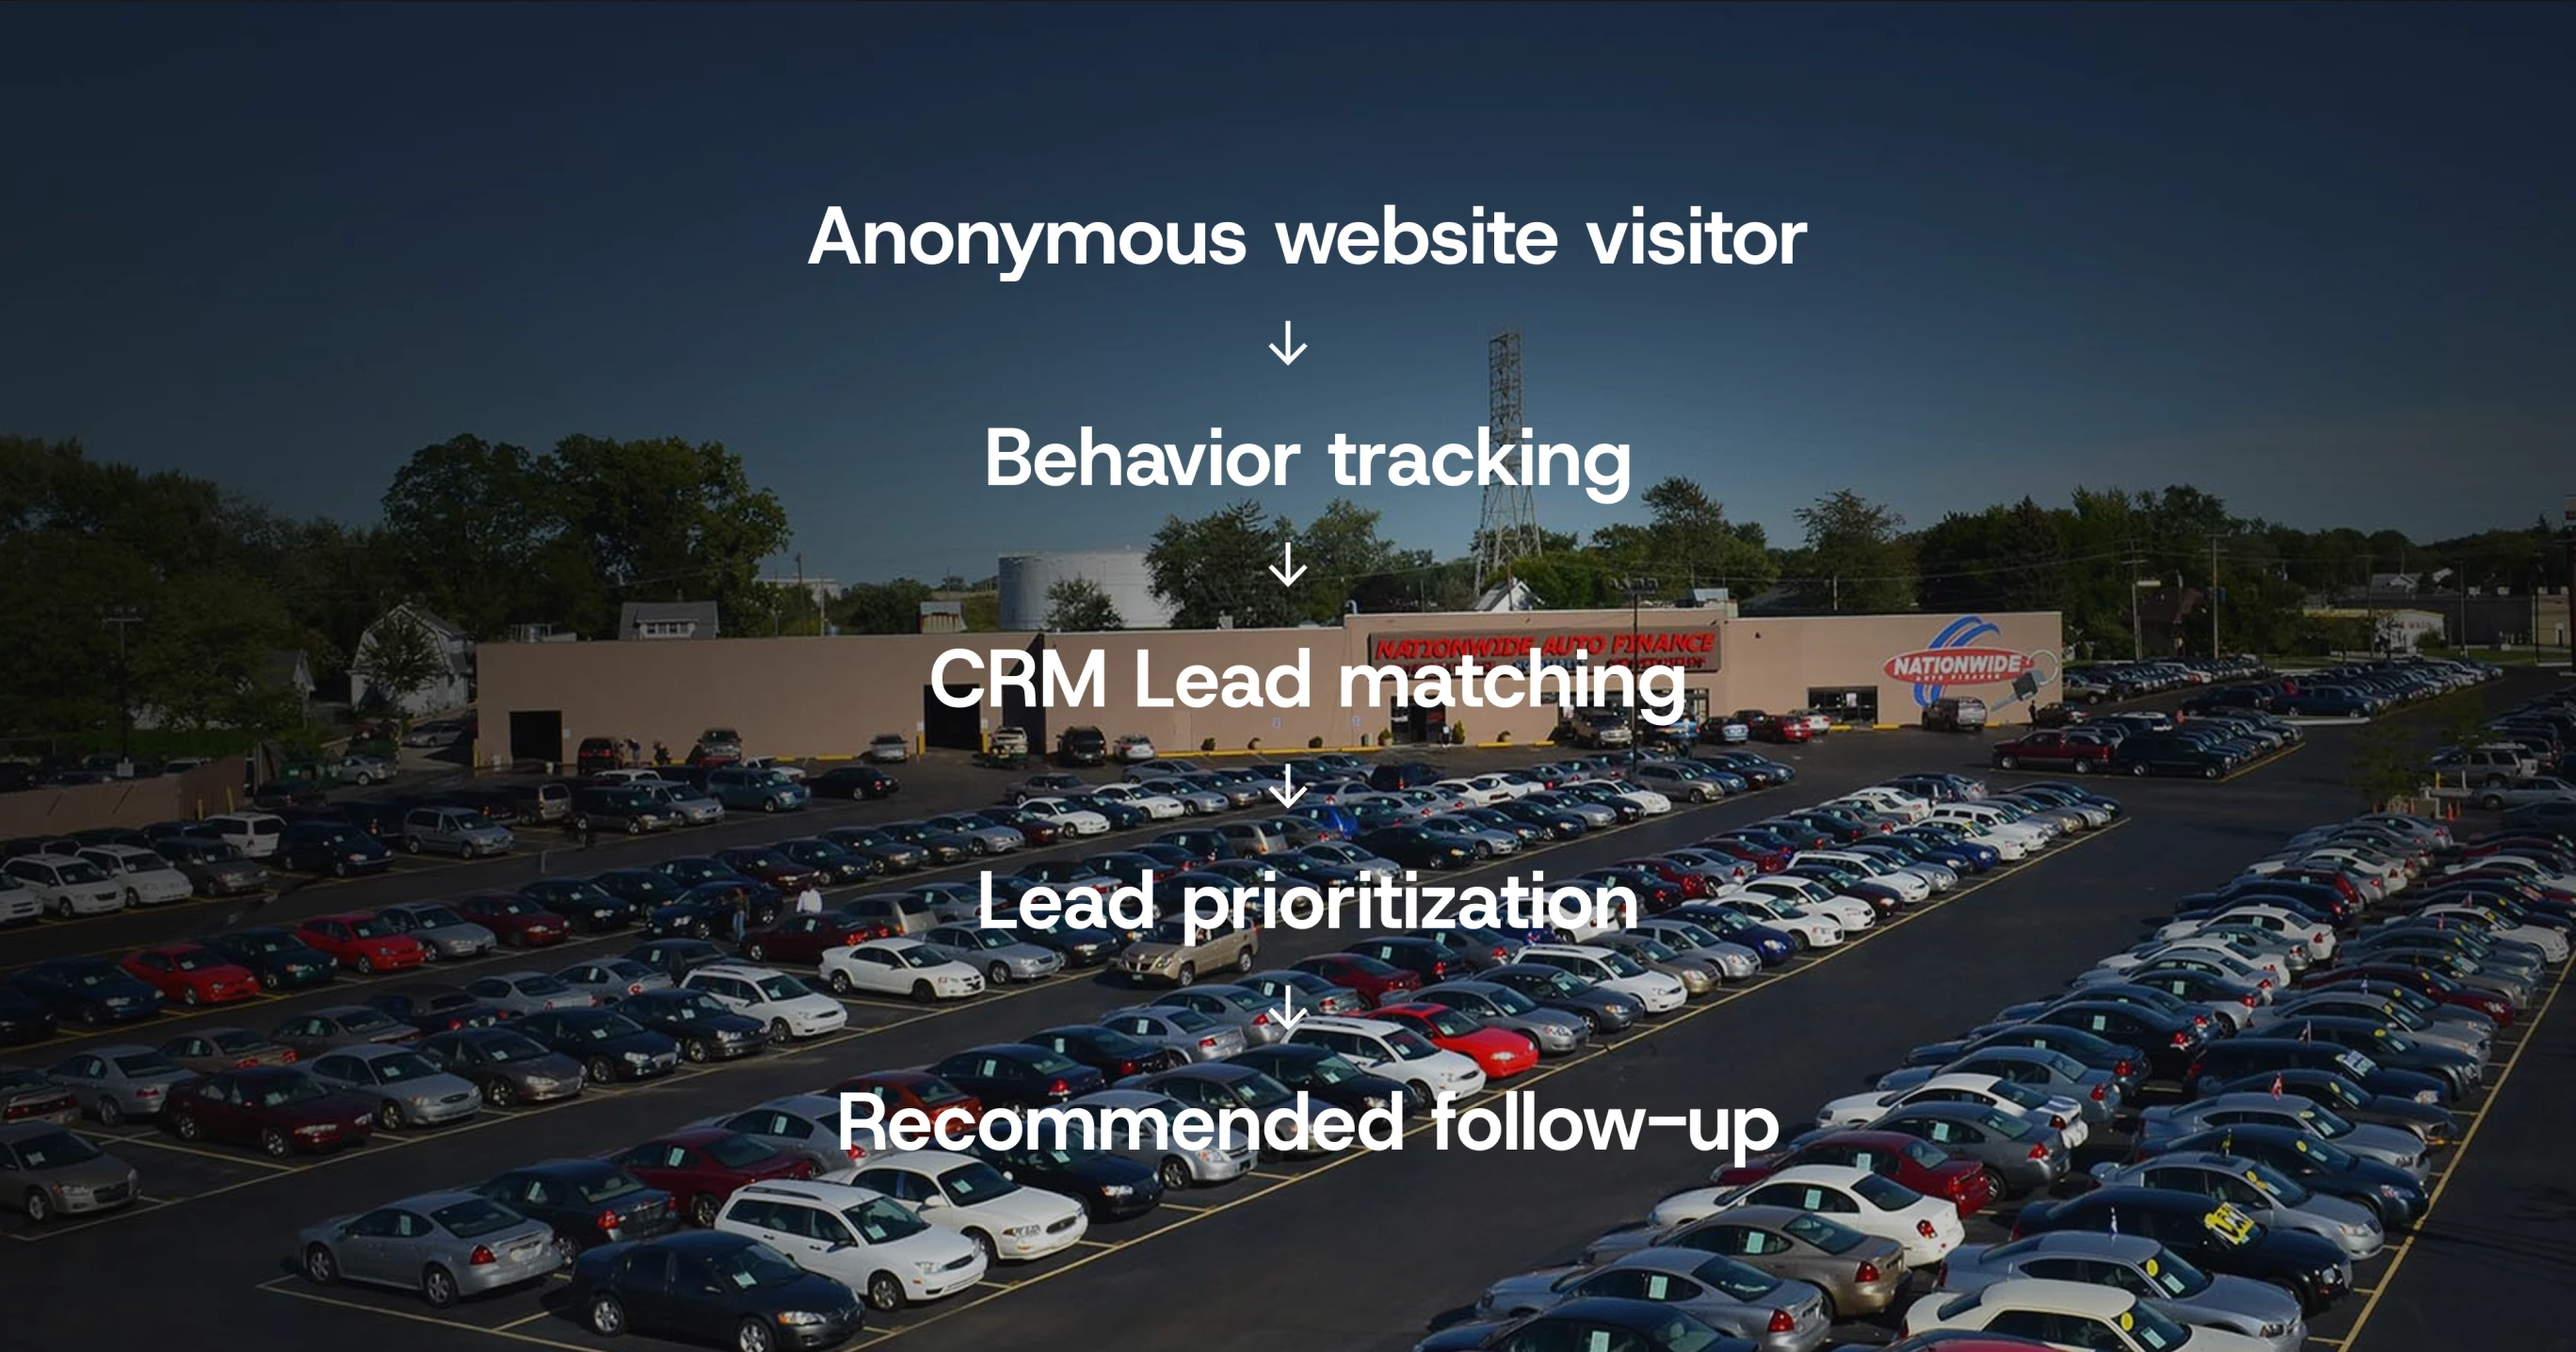
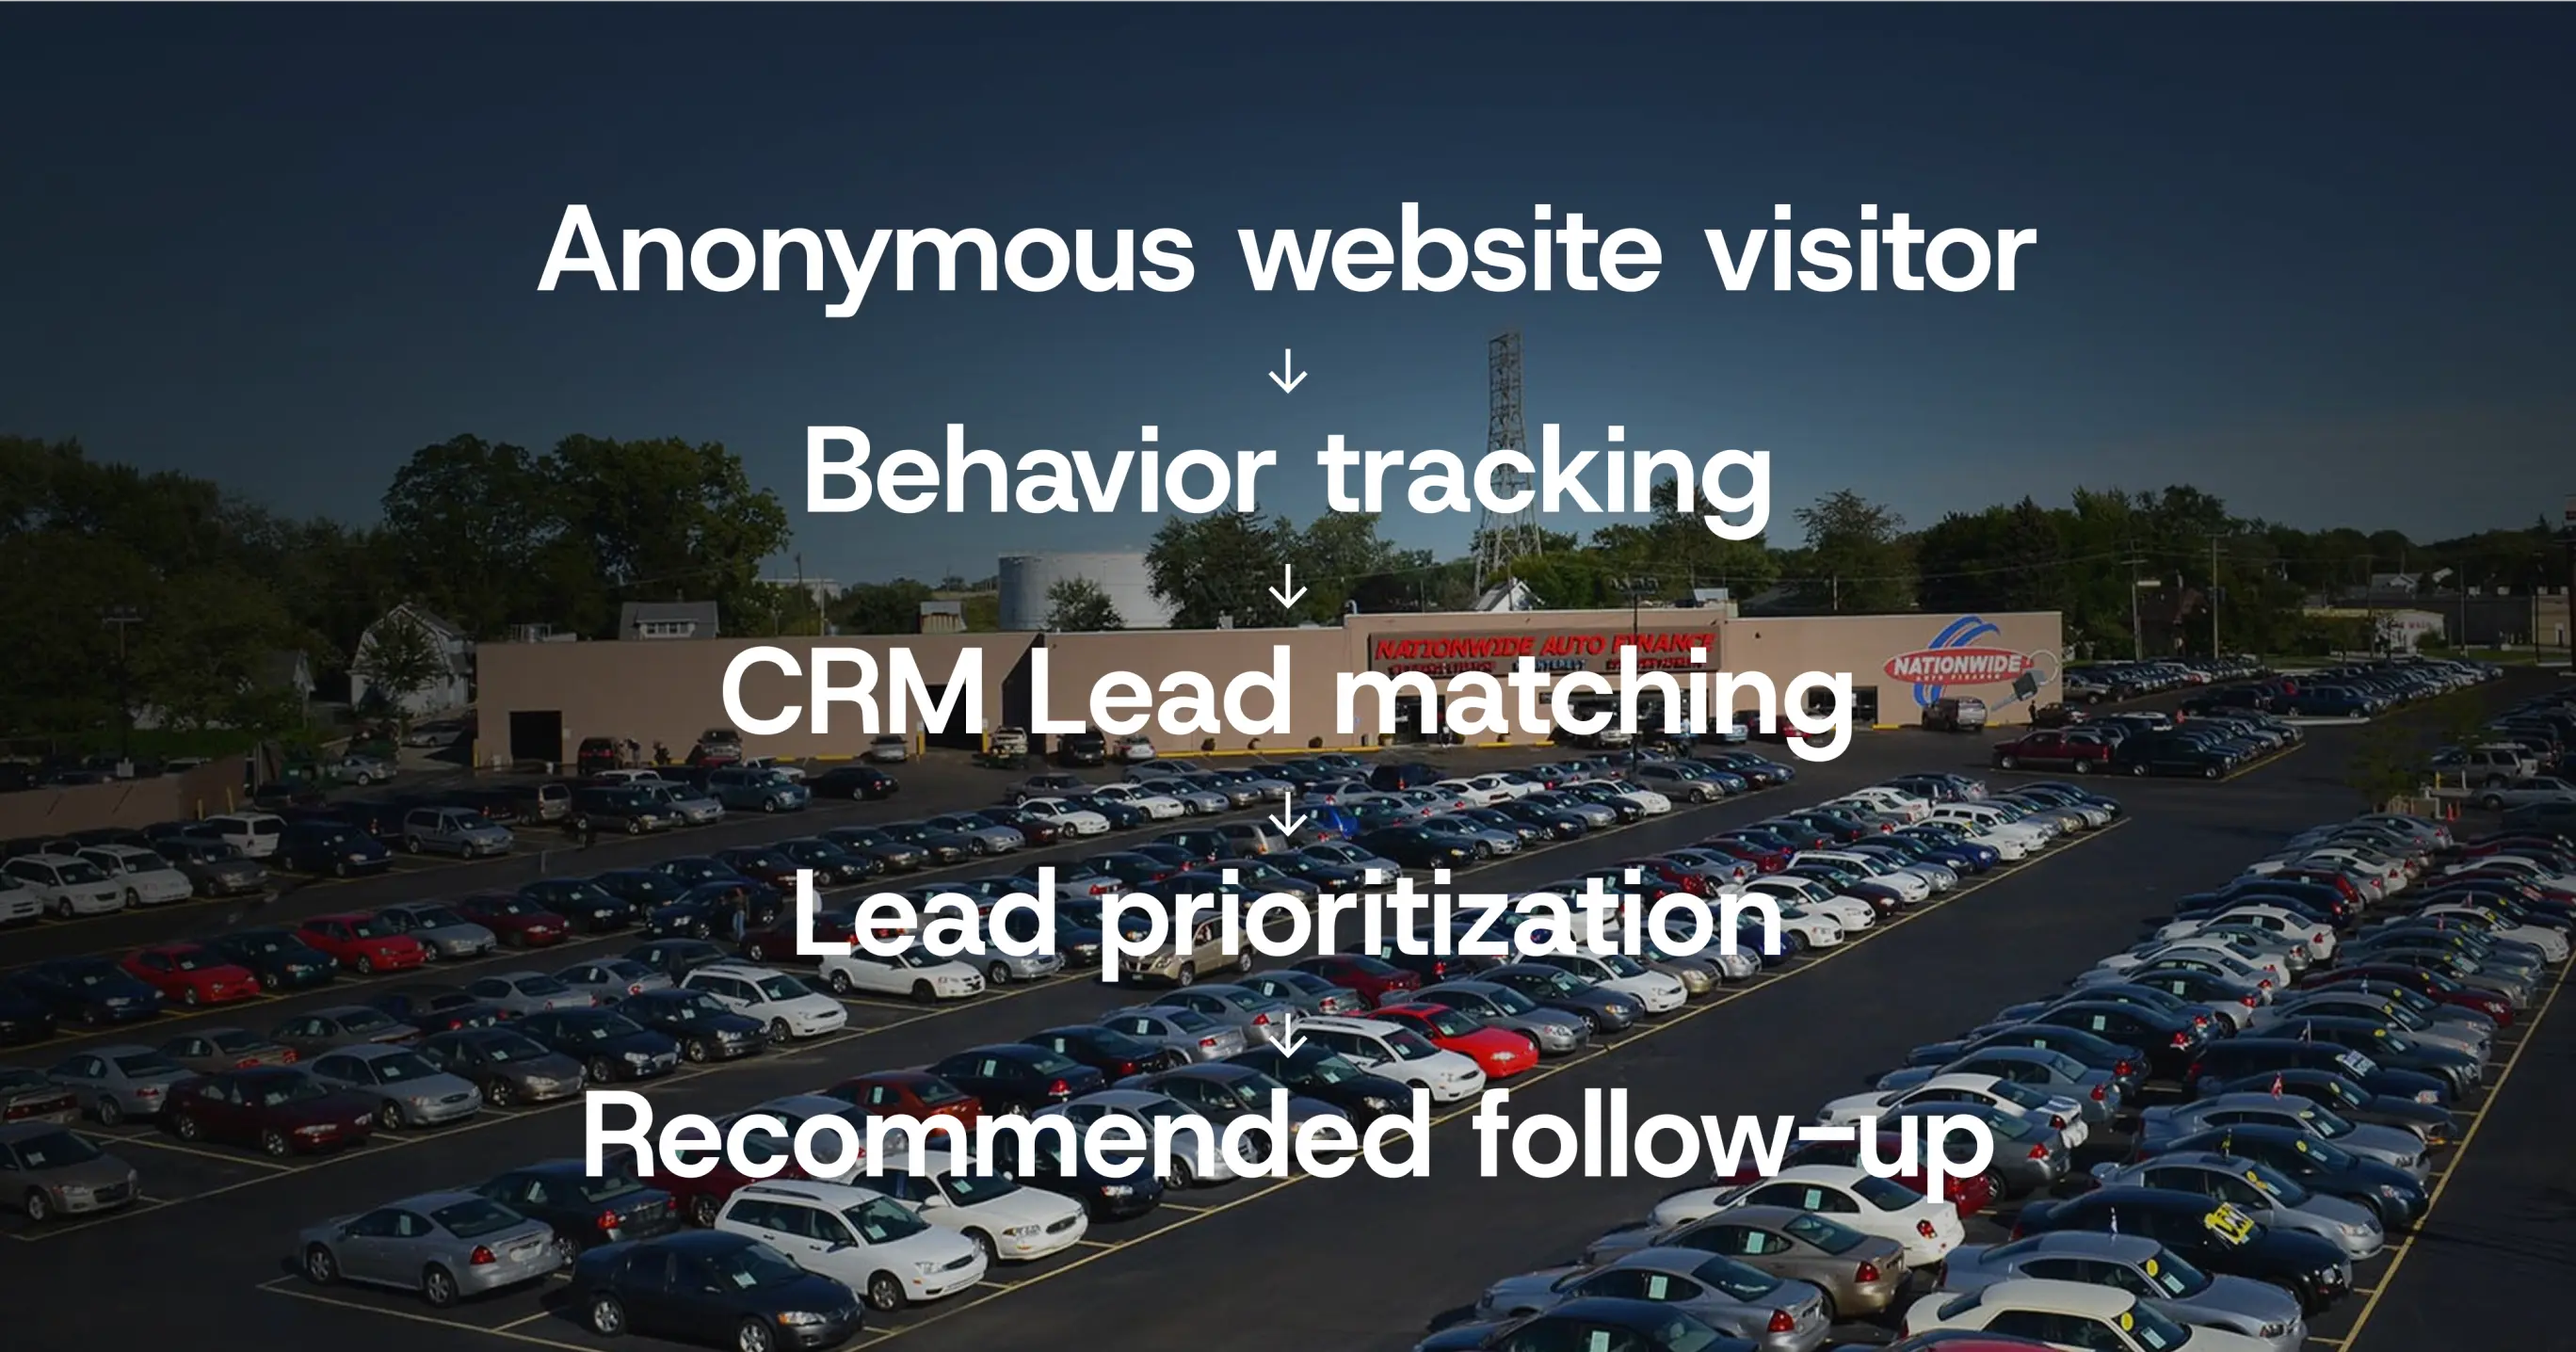
Update challenge images for Foureyes and AI Native case studies
- Convert Foureyes challenge image to 2x retina WebP (2736x1436)
- Convert AI Native challenge image to 2x retina WebP (2736x1536) and add to case study
- Bump cache versions to 20260730a

diff --git a/case-studies/ai-native-practice/index.html b/case-studies/ai-native-practice/index.html
@@ -8,7 +8,7 @@
 <link rel="canonical" href="https://calethompson.com/case-studies/ai-native-practice/">
 <link rel="preconnect" href="https://fonts.googleapis.com">
 <link href="https://fonts.googleapis.com/css2?family=Host+Grotesk:ital,wght@0,400;0,500;0,600;0,700;0,800;1,400;1,600&family=Cormorant+Infant:ital,wght@0,400;0,500;0,600;0,700;1,400&display=swap" rel="stylesheet">
-<link rel="stylesheet" href="/assets/css/site.css?v=20260729x">
+<link rel="stylesheet" href="/assets/css/site.css?v=20260730a">
 
 <meta property="og:title" content="AI-Native Design Practice Case Study | Cale Thompson">
 <meta property="og:description" content="How I retrained an entire design org to prototype in working code, automated the research pipeline, and raised the quality bar while shipping faster at Stori.">
@@ -46,6 +46,7 @@
 <p class="cs-lede"><span data-en="I rebuilt the design operating model to increase leverage, using AI to accelerate prototyping, automate research workflows, and raise the quality bar while shipping faster." data-es="Reconstruí el modelo operativo de diseño para aumentar el apalancamiento, usando IA para acelerar el prototipado, automatizar los flujos de investigación y elevar el estándar de calidad mientras entregábamos más rápido.">I rebuilt the design operating model to increase leverage, using AI to accelerate prototyping, automate research workflows, and raise the quality bar while shipping faster.</span></p>
 
 <div class="cs-section"><div class="cs-section-label"><span data-en="The challenge" data-es="El desafío">The challenge</span></div><p><span data-en="Stori’s design team supported a multi-product financial platform serving millions of customers across LATAM, and the roadmap was growing faster than the team could. Rather than hire I chose to rebuild the practice itself so each IC operated with more leverage, without letting craft slide. The risk was real, AI makes it cheap to ship mediocre work quickly. The team had to raise both quality and speed, or it would fail at both." data-es="El equipo de diseño de Stori apoyaba una plataforma financiera multiproducto que atendía a millones de clientes en toda LATAM, y el roadmap crecía más rápido de lo que el equipo podía abarcar. En lugar de contratar, elegí reconstruir la práctica misma para que cada IC operara con más apalancamiento, sin dejar que el oficio se deteriorara. El riesgo era real: la IA hace que sea barato lanzar trabajo mediocre rápidamente. El equipo tenía que elevar tanto la calidad como la velocidad, o fallaría en ambas.">Stori’s design team supported a multi-product financial platform serving millions of customers across LATAM, and the roadmap was growing faster than the team could. Rather than hire I chose to rebuild the practice itself so each IC operated with more leverage, without letting craft slide. The risk was real, AI makes it cheap to ship mediocre work quickly. The team had to raise both quality and speed, or it would fail at both.</span></p></div>
+<div class="hero-img"><img src="/assets/img/ai-native-practice/challenge.webp" alt="Design team workflow transformation from tools-first to outcome-focused" width="2736" height="1536" loading="lazy"></div>
 <div class="hero-img"><img src="/assets/img/ai-native-practice/eras-diagram.webp" alt="Progression from feature factory to scalable system to AI-native team" width="4048" height="1386" loading="lazy"></div>
 
 <div class="cs-section"><div class="cs-section-label"><span data-en="My role" data-es="Mi rol">My role</span></div><p><span data-en="I led the transformation personally, ahead of any mandate, by showing not telling. I retooled my own workflow first, brought working examples back to the team, and shared early wins and learnings. Adoption was uneven, so I set the expectation of exploration and learning over output at first — with clear goals: eliminate low-value work, increase iteration speed, and raise ownership of shipped UX quality. The practice stuck the same way any craft standard sticks: training, shared playbooks, and the same quality gates every shipped flow goes through." data-es="Lideré la transformación personalmente, antes de cualquier mandato, mostrando en lugar de solo indicar. Primero rediseñé mi propio flujo de trabajo, llevé ejemplos funcionales de vuelta al equipo, y compartí los primeros logros y aprendizajes. La adopción fue desigual, así que al principio establecí la expectativa de exploración y aprendizaje por encima de la producción, con metas claras: eliminar trabajo de bajo valor, aumentar la velocidad de iteración, y elevar la propiedad sobre la calidad de UX entregada. La práctica se consolidó de la misma forma en que se consolida cualquier estándar de oficio: capacitación, manuales compartidos, y los mismos controles de calidad por los que pasa cada flujo entregado.">I led the transformation personally, ahead of any mandate, by showing not telling. I retooled my own workflow first, brought working examples back to the team, and shared early wins and learnings. Adoption was uneven, so I set the expectation of exploration and learning over output at first — with clear goals: eliminate low-value work, increase iteration speed, and raise ownership of shipped UX quality. The practice stuck the same way any craft standard sticks: training, shared playbooks, and the same quality gates every shipped flow goes through.</span></p></div>
@@ -80,6 +81,6 @@
     </div>
   </div>
 </div>
-<script src="/assets/js/site.js?v=20260729x"></script>
+<script src="/assets/js/site.js?v=20260730a"></script>
 </body>
 </html>

diff --git a/case-studies/foureyes/index.html b/case-studies/foureyes/index.html
@@ -8,7 +8,7 @@
 <link rel="canonical" href="https://calethompson.com/case-studies/foureyes/">
 <link rel="preconnect" href="https://fonts.googleapis.com">
 <link href="https://fonts.googleapis.com/css2?family=Host+Grotesk:ital,wght@0,400;0,500;0,600;0,700;0,800;1,400;1,600&family=Cormorant+Infant:ital,wght@0,400;0,500;0,600;0,700;1,400&display=swap" rel="stylesheet">
-<link rel="stylesheet" href="/assets/css/site.css?v=20260729x">
+<link rel="stylesheet" href="/assets/css/site.css?v=20260730a">
 
 <meta property="og:title" content="Foureyes Case Study — Trusted Sales Intelligence | Cale Thompson">
 <meta property="og:description" content="As founding Head of Product & Design at Foureyes, I helped turn an early-stage product with ~20 customers into a platform that fueled 200% YoY growth.">
@@ -47,6 +47,6 @@
     </div>
   </div>
 </div>
-<script src="/assets/js/site.js?v=20260729x"></script>
+<script src="/assets/js/site.js?v=20260730a"></script>
 </body>
 </html>
